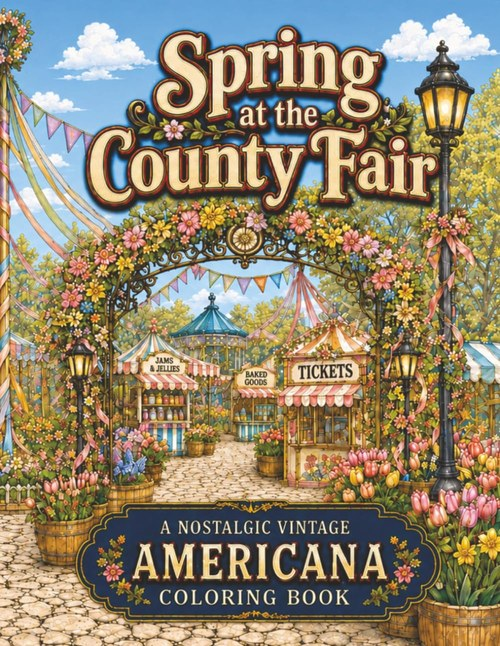
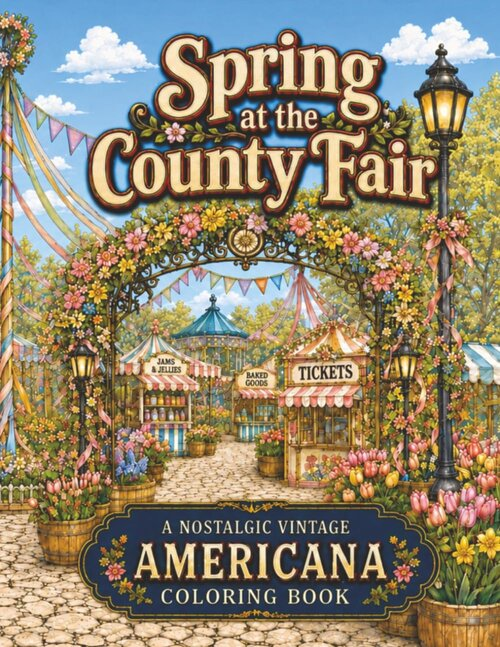
Add Covered Bridges for the Holidays, two New Testament titles; refresh County Fair covers
- Dropthorn: add Covered Bridges for the Holidays (1970516437), fix More Critter Games ISBN, update counts
- Dropthorn: refresh four County Fair series covers from current Amazon listings
- Bright Haven: add My Journey Through the New Testament (1970516402) and Peaceful Reflections: New Testament (1970516429)

Claude-Session: https://claude.ai/code/session_01DMiZAUYsL4yxStPFeokuSu

diff --git a/dropthorn-press/index.html b/dropthorn-press/index.html
@@ -521,7 +521,7 @@
       <h1>Color what you <span class="swap">love</span>.</h1>
       <p class="lede">Dropthorn Press creates books for people who love to color. Bold outlines, open spaces, and designs that work whether you reach for a crayon or a fine-tip marker.</p>
       <div class="hero-cta">
-        <a href="#catalog" class="btn solid">Browse 27 books
+        <a href="#catalog" class="btn solid">Browse 28 books
           <svg width="16" height="16" viewBox="0 0 24 24" fill="none" stroke="currentColor" stroke-width="2.5" stroke-linecap="round"><path d="M5 12h14M13 5l7 7-7 7"/></svg>
         </a>
         <a href="#catalog" class="btn" data-filter="fair">See the County Fair collection</a>
@@ -621,7 +621,7 @@
           <h3>Holiday Squad</h3>
           <p>Christmas, Valentines, Easter. Seasonal pages with a punch of color.</p>
         </div>
-        <span class="count">7 titles</span>
+        <span class="count">8 titles</span>
         <svg class="col-art" width="190" height="160" viewBox="0 0 190 160"><path d="M95 22 L108 60 L150 64 L118 88 L130 130 L95 105 L60 130 L72 88 L40 64 L82 60 Z" fill="none" stroke="#0e1116" stroke-width="3"/></svg>
       </a>
       <a class="col-card col-america" href="#catalog" data-filter="spangle">
@@ -896,7 +896,7 @@
     { t: "Happy Hearts",                                  d: "2026-01-18", p: 63,  pr: 6.99,  cat: "holiday", theme: "k-pink",    isbn: "9781970516142", url: "https://www.amazon.com/dp/1970516143", art: "heart" },
     { t: "Valentine Friends",                             d: "2026-01-18", p: 55,  pr: 6.99,  cat: "holiday", theme: "k-coral",   isbn: "9781970516135", url: "https://www.amazon.com/dp/1970516135", art: "heart" },
     { t: "Critter Games",                                 d: "2026-01-20", p: 53,  pr: 6.99,  cat: "critter", theme: "k-pink",    isbn: "9781970516166", url: "https://www.amazon.com/dp/197051616X", art: "critter" },
-    { t: "More Critter Games",                            d: "2026-01-27", p: 55,  pr: 6.99,  cat: "critter", theme: "k-mustard", isbn: "9781970516289", url: "https://www.amazon.com/dp/1970516259", art: "critter" },
+    { t: "More Critter Games",                            d: "2026-01-27", p: 55,  pr: 6.99,  cat: "critter", theme: "k-mustard", isbn: "9781970516258", url: "https://www.amazon.com/dp/1970516259", art: "critter" },
     { t: "Country Roads",                                 d: "2026-02-25", p: 85,  pr: 9.99,  cat: "scenic",  theme: "k-mustard", isbn: "9798249762278", url: "https://www.amazon.com/dp/B0GQS27JTN", art: "road" },
     { t: "Red, White & Bloom",                            d: "2026-02-27", p: 83,  pr: 9.99,  cat: "spangle", theme: "k-red",     isbn: "9781970516289", url: "https://www.amazon.com/dp/1970516283", art: "bloom" },
     { t: "Red, White & Kawaii Critters",                  d: "2026-03-01", p: 55,  pr: 9.99,  cat: "spangle", theme: "k-cream",   isbn: "9798250272377", url: "https://www.amazon.com/dp/B0GQZ5RDX5", art: "critter" },
@@ -906,7 +906,8 @@
     { t: "County Fair",                d: "2026-08-11", p: 83, pr: 9.99, cat: "fair", theme: "k-coral",   isbn: "9781970516333", url: "https://www.amazon.com/dp/197051633X", art: "ferris" },
     { t: "Autumn at the County Fair",  d: "2026-08-11", p: 83, pr: 9.99, cat: "fair", theme: "k-mustard", isbn: "9781970516340", url: "https://www.amazon.com/dp/1970516348", art: "ferris" },
     { t: "Spring at the County Fair",  d: "2026-08-11", p: 83, pr: 9.99, cat: "fair", theme: "k-mint",    isbn: "9781970516357", url: "https://www.amazon.com/dp/1970516356", art: "ferris" },
-    { t: "Winter at the County Fair",  d: "2026-08-11", p: 83, pr: 9.99, cat: "fair", theme: "k-blue",    isbn: "9781970516364", url: "https://www.amazon.com/dp/1970516364", art: "ferris" }
+    { t: "Winter at the County Fair",  d: "2026-08-11", p: 83, pr: 9.99, cat: "fair", theme: "k-blue",    isbn: "9781970516364", url: "https://www.amazon.com/dp/1970516364", art: "ferris" },
+    { t: "Covered Bridges for the Holidays: A Vintage Americana Coloring Book", d: "2026-10-18", p: 85, pr: 9.99, cat: "holiday", theme: "k-red", isbn: "9781970516432", url: "https://www.amazon.com/dp/1970516437", art: "snow" }
   ];
 
   const ART = {
@@ -960,10 +961,11 @@
     "B0GR9NNKD2", // Critters Make History
     "B0GQZ5RDX5", // Red, White & Kawaii Critters
     "1970516283", // Red, White & Bloom
-    "1970516348", // County Fair
-    "197051633X", // Autumn at the County Fair
+    "1970516348", // Autumn at the County Fair
+    "197051633X", // County Fair
     "1970516356", // Spring at the County Fair
-    "1970516364"  // Winter at the County Fair
+    "1970516364", // Winter at the County Fair
+    "1970516437"  // Covered Bridges for the Holidays
   ]);
 
   function render() {

diff --git a/bright-haven-publishing/index.html b/bright-haven-publishing/index.html
@@ -557,6 +557,19 @@ footer {
           </div>
         </article>
 
+        <article class="book-card">
+          <a href="https://www.amazon.com/dp/1970516402" target="_blank" rel="noopener" aria-label="View My Journey Through the New Testament on Amazon">
+            <img class="book-cover" loading="lazy" src="covers/new-testament.jpg" alt="My Journey Through the New Testament cover">
+          </a>
+          <div class="book-info">
+            <h4 class="book-title">My Journey Through the New Testament</h4>
+            <div class="book-meta"><span>Released Sep 2026</span><span>111 pages</span></div>
+            <div class="book-bottom">
+              <span class="book-price">$9.99</span>
+            </div>
+          </div>
+        </article>
+
       </div>
     </div>
 
@@ -575,6 +588,19 @@ footer {
             <div class="book-meta"><span>Released Apr 2025</span><span>55 pages</span></div>
             <div class="book-bottom">
               <span class="book-price">$7.99</span>
+            </div>
+          </div>
+        </article>
+
+        <article class="book-card">
+          <a href="https://www.amazon.com/dp/1970516429" target="_blank" rel="noopener" aria-label="View Peaceful Reflections: New Testament on Amazon">
+            <img class="book-cover" loading="lazy" src="covers/peaceful-reflections-new-testament.jpg" alt="Peaceful Reflections: New Testament cover">
+          </a>
+          <div class="book-info">
+            <h4 class="book-title">Peaceful Reflections: New Testament</h4>
+            <div class="book-meta"><span>Released Oct 2026</span><span>109 pages</span></div>
+            <div class="book-bottom">
+              <span class="book-price">$9.99</span>
             </div>
           </div>
         </article>
@@ -693,7 +719,7 @@ footer {
     <div class="divider"></div>
     <div class="about-content">
       <p>At Bright Haven Publishing, we create uplifting coloring books that celebrate faith, beauty, and creativity. Each page invites quiet attention and contemplation.</p>
-      <p>Our temple coloring series is a tribute to sacred architecture and the peace that comes from embracing times of mindful reflection. Our scripture coloring books walk readers through the Old Testament, the Book of Mormon, and the season of Advent one page at a time, leaving room for discussing and teaching about moments in the scriptures.</p>
+      <p>Our temple coloring series is a tribute to sacred architecture and the peace that comes from embracing times of mindful reflection. Our scripture coloring books walk readers through the Old Testament, the New Testament, the Book of Mormon, and the season of Advent one page at a time, leaving room for discussing and teaching about moments in the scriptures.</p>
       <p>We believe creative practice is a form of devotion, and that beautifully made books can become a small daily haven in a hurried world.</p>
       <div class="signature">Reflect · Renew · Create</div>
     </div>
